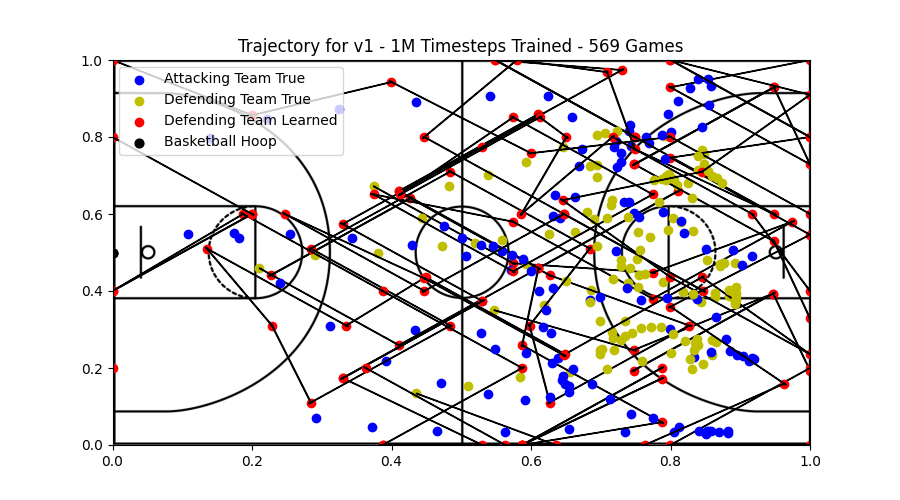
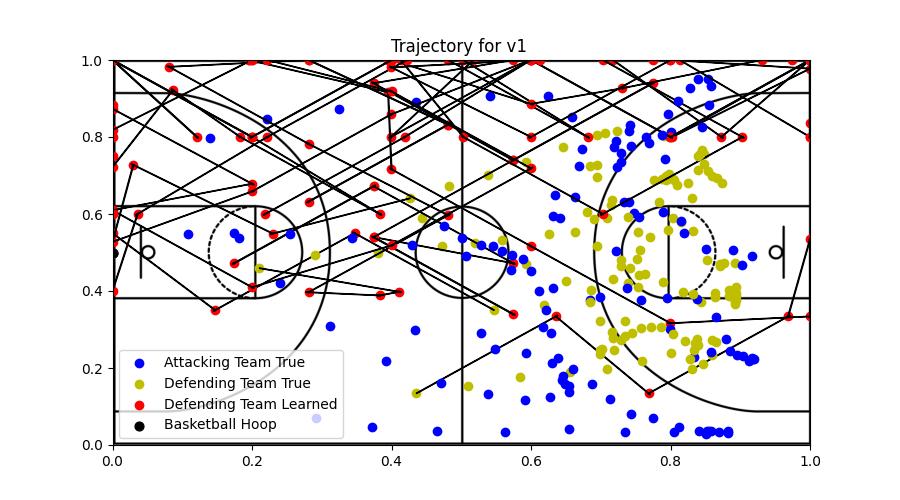
plot titles

diff --git a/TestModel.py b/TestModel.py
@@ -84,7 +84,7 @@ def main(**kwargs):
                 next_state = state_traj[index+1]
                 state_model[:9] = next_state[:9]
                 state_model[10:20] = np.clip(state_model[10:20] + action_model,0,1)
-            plt.title("Trajectory for v1 - 1M Timesteps Trained - 569 Games")
+            plt.title("Trajectory for v1 ")
 
         elif kwargs.get("version") == "v2":
             for i in range(5):
@@ -105,7 +105,7 @@ def main(**kwargs):
                 next_state = state_traj[index+1]
                 state_model[:19] = next_state[:19]
                 state_model[20:30] = np.clip(state_model[20:30] + action_model,0,1)
-            plt.title("Trajectory for v2 - 1M Timesteps Trained - 569 Games")
+            plt.title("Trajectory for v2 ")
 
         elif kwargs.get("version") == "v3":
             if kwargs.get("GAIL") == "t":
@@ -118,7 +118,7 @@ def main(**kwargs):
 
                 if index != h - 2:
                     state_model = state_traj[index + 1]
-                plt.title("Trajectory for v3 - 1M Timesteps Trained- 569 Games")
+                plt.title("Trajectory for v3 ")
             else:
                 for i in range(5):
                     ax.scatter(state_now[2 * i], state_now[2 * i + 1], c='b')
@@ -129,7 +129,7 @@ def main(**kwargs):
 
                 if index != h-2:
                     state_model = state_traj[index+1]
-                plt.title("Trajectory for v3 - 1M Timesteps Trained- 569 Games")
+                plt.title("Trajectory for v3 ")
 
     ax.set_xlim([0, 1])
     ax.set_ylim([0, 1])

diff --git a/README.md b/README.md
@@ -41,7 +41,7 @@ Then, use the model to attempt to predict a trajectory:
 python TestModel.py -m Models/READMETestv1.zip -v v1 -n READMETest -d Demos/READMETestv1.npz
 ```
 
-Below we can see some of the plots from the different version testing on new trajectories:
+Below we can see some plots from the different version testing on new trajectories:
 
 ![Alt text](TestImages/FullDatav1.png?raw=true "Title")
 
